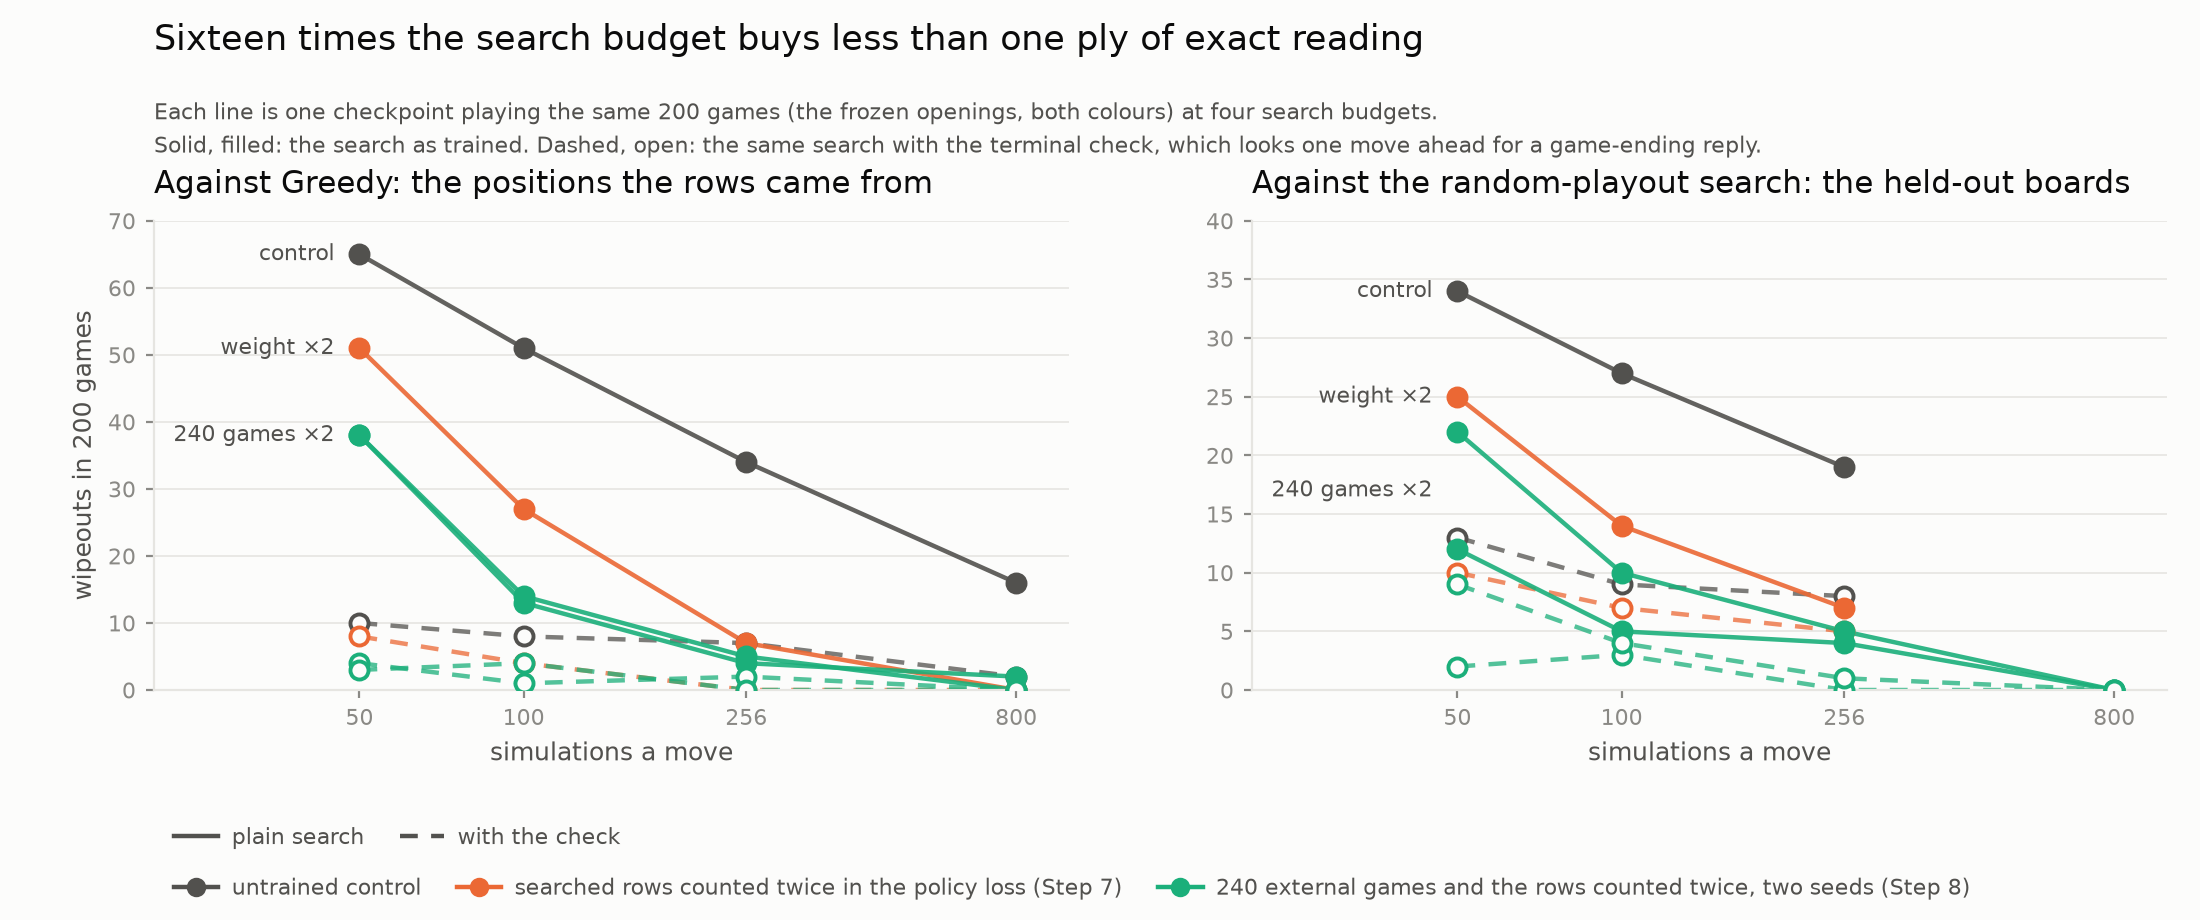
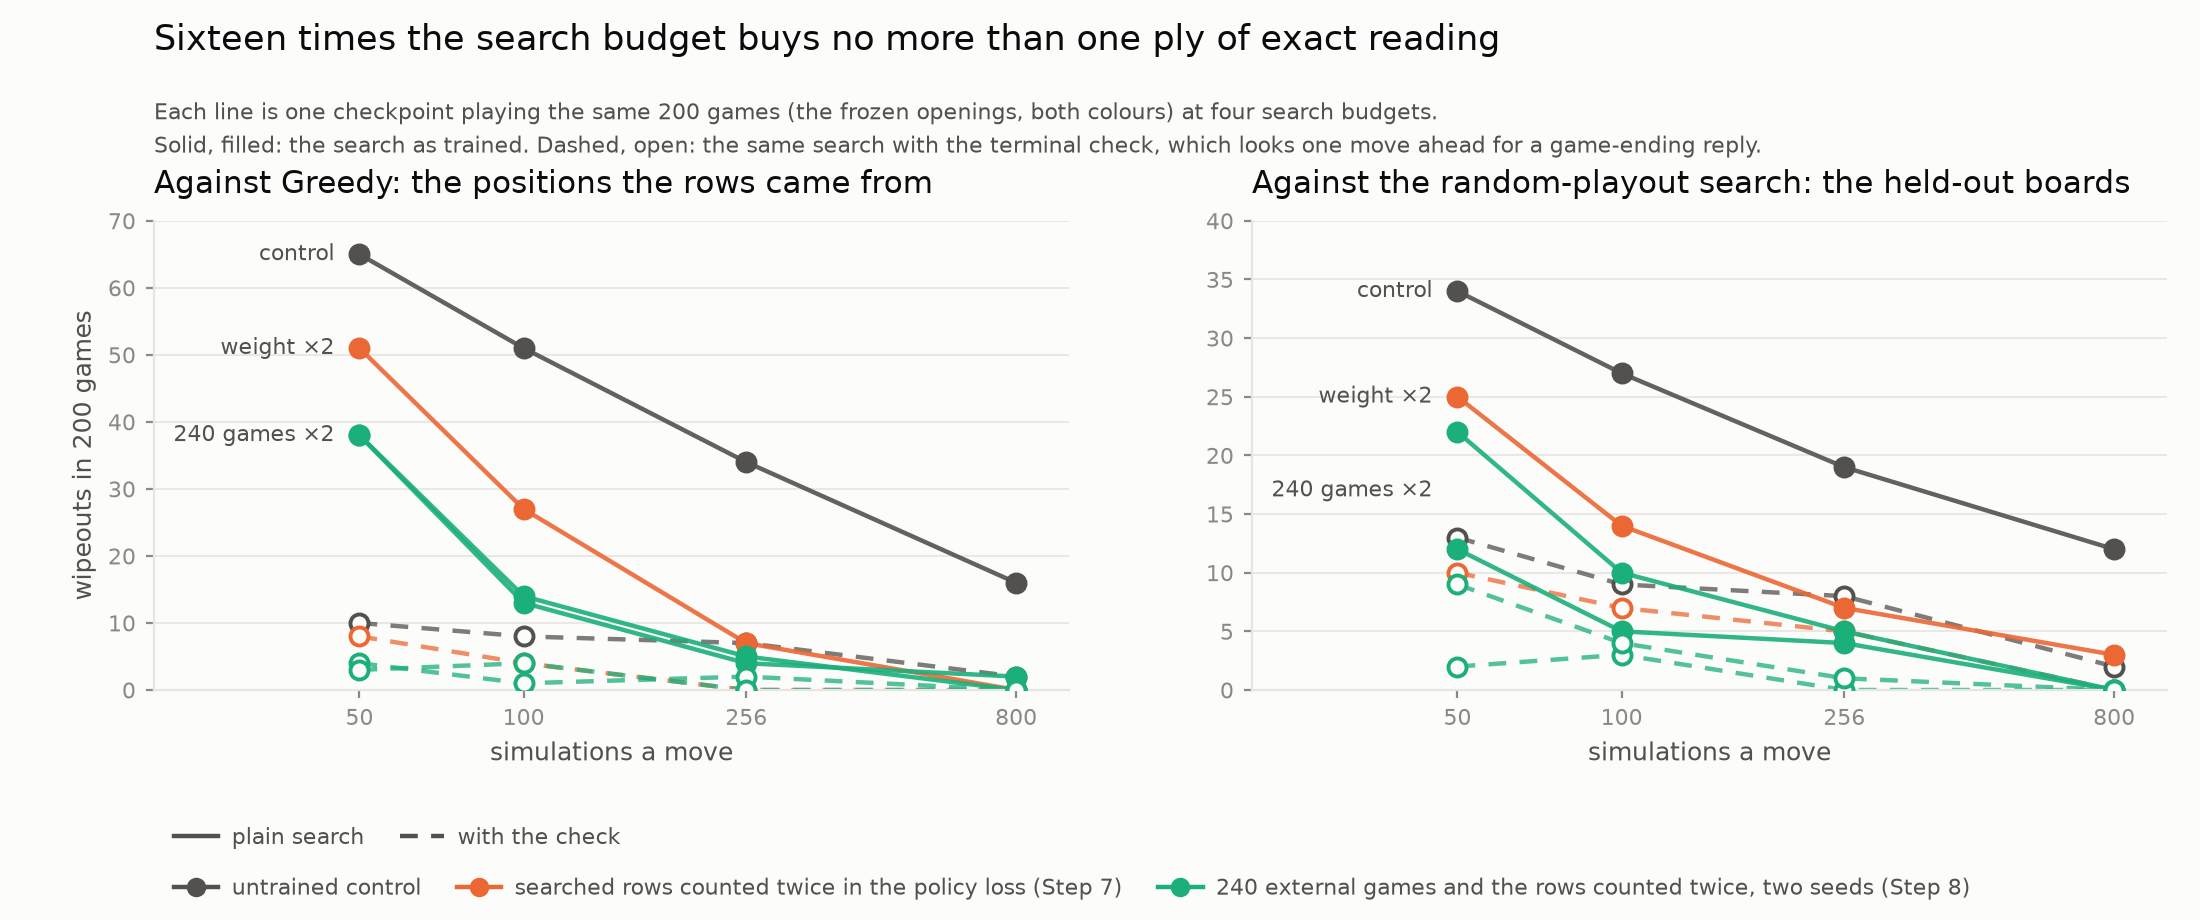
research: the last four cells of the search-budget curve
The 800-simulation pairings of the control and the weight-2 checkpoint
against the random-playout search have reported: 12 and 3 with the plain
search, 2 and 0 with the check. On that row sixteen times the budget reaches
the check's 50-simulation reading on the control (12 against 13), where
against Greedy it does not (16 against 10), so the section and the figure
title say "no more than one ply" rather than "less than". The pending
paragraph is gone, the JSON holds all 64 cells and is written with LF line
endings, and the job durations are recorded.

diff --git a/scripts/step3c_dose_curve.py b/scripts/step3c_dose_curve.py
@@ -167,7 +167,7 @@ def main() -> int:
             "opponents": list(OPPONENTS),
             "pairings": table,
         }
-        args.out.write_text(json.dumps(payload, indent=1, sort_keys=True) + "\n")
+        args.out.write_text(json.dumps(payload, indent=1, sort_keys=True) + "\n", newline="\n")
         print(f"wrote {args.out}", file=sys.stderr)
     if args.markdown or args.out is None:
         print("wipeouts in 200 games\n")

diff --git a/scripts/figures/dose.py b/scripts/figures/dose.py
@@ -199,7 +199,7 @@ def main() -> None:
         ax.set_xlim(21, 1000)
 
     fig.suptitle(
-        "Sixteen times the search budget buys less than one ply of exact reading",
+        "Sixteen times the search budget buys no more than one ply of exact reading",
         x=0.07,
         ha="left",
         fontsize=12.5,

diff --git a/research/step3c-terminal-check.md b/research/step3c-terminal-check.md
@@ -108,7 +108,7 @@ Both residues are fixable in the search, neither was run, and neither bears on t
 - **The repair is local.** The check changes nothing against Edax or against the earlier generation. It is not a strength improvement; it is the removal of one class of loss. This separates the two things the Step 1 pilot conflated, overall strength and the Greedy anomaly: the anomaly can be removed on its own, and removing it leaves strength where it was.
 - **Together with Steps 3 and 3b, this fixes where the fault sits.** The training data does not carry the lesson (Step 3b, section 5: about 80 rows against four thousand look-alikes labelled the other way); the value head cannot carry a one-move tactic as a smooth function of the position; the policy prior hides the reply; and the search budget is too small to look past the prior. The first three are properties of learning from game results; the fourth is the one a cheap, exact rule can override. The rule matters in Othello because a game can end from the middle of the board in one move: the wipeout rule puts a terminal position within one ply of ordinary-looking positions, where a learned evaluator is least likely to be asked and most likely to be wrong.
 
-**What it does not establish.** It does not say the check should be on in self-play: training with it would change what the network learns about low-disc positions, and that is a training experiment, not a measurement. Section 7, run a week later, tests a larger search budget as the alternative and finds that sixteen times the budget buys less than the check does at 50 simulations. It does not test the two residual repairs in section 5. And the twelve games say the 95% is a property of this rule at this budget, not a ceiling.
+**What it does not establish.** It does not say the check should be on in self-play: training with it would change what the network learns about low-disc positions, and that is a training experiment, not a measurement. Section 7, run a week later, tests a larger search budget as the alternative and finds that sixteen times the budget buys no more than the check does at 50 simulations. It does not test the two residual repairs in section 5. And the twelve games say the 95% is a property of this rule at this budget, not a ceiling.
 
 ## 7. The search-budget curve
 
@@ -131,24 +131,22 @@ Against the random-playout search, the held-out opponent:
 
 | checkpoint | plain 50 | plain 100 | plain 256 | plain 800 | check 50 | check 100 | check 256 | check 800 |
 |---|---:|---:|---:|---:|---:|---:|---:|---:|
-| control120 (untrained) | 34 | 27 | 19 | pending | 13 | 9 | 8 | pending |
-| Bw2-s1 (Step 7, rows counted twice) | 25 | 14 | 7 | pending | 10 | 7 | 5 | pending |
+| control120 (untrained) | 34 | 27 | 19 | 12 | 13 | 9 | 8 | 2 |
+| Bw2-s1 (Step 7, rows counted twice) | 25 | 14 | 7 | 3 | 10 | 7 | 5 | 0 |
 | B240w2-s1 (Step 8, 240 games, rows counted twice) | 12 | 5 | 4 | 0 | 2 | 3 | 0 | 0 |
 | B240w2-s2 (the same, second seed) | 22 | 10 | 5 | 0 | 9 | 4 | 1 | 0 |
 
-The two 800-simulation pairings of the control and of Bw2-s1 against the random-playout search, about nine hours each on one core, had not reported when this section was written and are marked pending; the JSON and the figure are regenerated from the reports when they land.
-
 The scores move with the wipeouts throughout and are in the JSON; against Greedy the control reads 67.5% at 50 simulations, 92.0% at 800 and 95.0% at 50 with the check. Four readings.
 
-**Sixteen times the budget buys less than one ply of exact reading.** On the untrained control the plain search at 800 simulations leaves 16 wipeouts against Greedy, and the check at 50 leaves 10; against the random-playout search the plain search at 256 leaves 19 where the check at 50 leaves 13. The curve on the control is slow because of what section 1 and the Step 2 analysis found: the prior on the wiping reply is 3.6% at the median of these positions, and a search that gives a child that share of its visits needs some hundreds of simulations at the position above before the child is opened even once. Each step of the budget removes about a quarter to a half of the remaining wipeouts, 65, 51, 34, 16, and the one-ply rule removes five sixths of them at the smallest budget. The Step 2 reading stands as a curve: the search was short of one specific ply, not of depth.
+**Sixteen times the budget buys no more than one ply of exact reading.** On the untrained control the plain search at 800 simulations leaves 16 wipeouts against Greedy, where the check at 50 leaves 10; against the random-playout search it leaves 12 at 800, where the check at 50 leaves 13 and at 800 leaves 2. The budget catches the one-ply rule's 50-simulation reading on one row at sixteen times the cost and does not catch it on the other. The curve on the control is slow because of what section 1 and the Step 2 analysis found: the prior on the wiping reply is 3.6% at the median of these positions, and a search that gives a child that share of its visits needs some hundreds of simulations at the position above before the child is opened even once. Each step of the budget removes about a quarter to a half of the remaining wipeouts, 65, 51, 34, 16, and the one-ply rule removes five sixths of them at the smallest budget. The Step 2 reading stands as a curve: the search was short of one specific ply, not of depth.
 
-**What the check leaves is not a budget problem until 800.** The checked curve on the control is nearly flat, 10, 8, 7, 2 against Greedy and 13, 9, 8 against the random-playout search. Section 5 read the residue as the first-play-urgency rule meeting a proven loss: every move the search tried was known to lose and the one that did not was never tried. More simulations do eventually try it, which is why 2 remain at 800 and not 7, but 256 do not; the residue is a property of how the search orders untried moves, which section 5 names two cheap fixes for, and the budget is the expensive way to buy the same thing.
+**What the check leaves is not a budget problem until 800.** The checked curve on the control is nearly flat, 10, 8, 7, 2 against Greedy and 13, 9, 8, 2 against the random-playout search. Section 5 read the residue as the first-play-urgency rule meeting a proven loss: every move the search tried was known to lose and the one that did not was never tried. More simulations do eventually try it, which is why 2 remain at 800 and not 7, but 256 do not; the residue is a property of how the search orders untried moves, which section 5 names two cheap fixes for, and the budget is the expensive way to buy the same thing.
 
 **The trained prior does not remove the hole at 50 simulations; it lowers the budget at which the plain search finds the reply itself.** From 50 to 100 simulations the control's wipeouts fall by a fifth, 65 to 51 against Greedy and 34 to 27 against the random-playout search; the trained checkpoints' fall by half or more, 51 to 27, 38 to 13 and 38 to 14 against Greedy, 25 to 14, 12 to 5 and 22 to 10 against the random-playout search. At 256 simulations the plain search on the trained checkpoints reads 4 to 7 against Greedy and 4 to 7 against the random-playout search, which is where the check sits at 50 simulations on the same checkpoints (3 to 8, and 2 to 10) and where the control's plain search has not arrived at 800. The mechanism is the one the Step 5 results named: the policy route raised the prior on the wiping reply from 4% to 8 to 12%, and a child carrying 12% of the prior is opened at a budget where one carrying 4% is not. The training signal and the search budget multiply. What twenty generations of the policy route bought, read on this axis, is a move of the budget that finds the reply from past 800 simulations to about 256.
 
-**The held-out row reads as the Greedy row does at every budget, so the reading every trained group stops at under the frozen protocol is a reading of the budget.** The Step 6 to 8 groups all read 17 to 27 wipeouts against the random-playout search at 50 simulations, whichever way the policy signal was bought, and the Step 8 design asked whether that was where the signal stopped or where the distinct positions ran out. At 256 simulations the two combined-group checkpoints read 4 and 5 on that row with the plain search, and at 800 both read 0, with or without the check. The row stops where a 50-simulation search stops on these priors, not where the networks stop. With the check on, every trained checkpoint reads 0 to 2 against Greedy and 0 to 5 against the random-playout search from 256 simulations on, and 0 on both rows at 800 where it has reported.
+**The held-out row reads as the Greedy row does at every budget, so the reading every trained group stops at under the frozen protocol is a reading of the budget.** The Step 6 to 8 groups all read 17 to 27 wipeouts against the random-playout search at 50 simulations, whichever way the policy signal was bought, and the Step 8 design asked whether that was where the signal stopped or where the distinct positions ran out. At 256 simulations the two combined-group checkpoints read 4 and 5 on that row with the plain search, and at 800 both read 0, with or without the check. The row stops where a 50-simulation search stops on these priors, not where the networks stop. With the check on, every trained checkpoint reads 0 to 2 against Greedy and 0 to 5 against the random-playout search from 256 simulations on, and 0 on both rows at 800.
 
-**What it costs.** The check costs nothing in wall time at any budget (section 1). The budget is paid for in proportion: on one core the Greedy pairings took 15 to 22 minutes at 50 simulations and two and a half to three hours at 800, and the random-playout pairings, whose opponent spends 3,000 playouts a move, six hours at 50 and about nine at 800. A search at 800 simulations in play is sixteen times the compute of one at 50, for a reading the one-ply rule gives at 50.
+**What it costs.** The check costs nothing in wall time at any budget (section 1). The budget is paid for in proportion: on one core the Greedy pairings took 15 to 22 minutes at 50 simulations and two and a half to three hours at 800, and the random-playout pairings, whose opponent spends 3,000 playouts a move, six hours at 50 and nine and a half to ten at 800. A search at 800 simulations in play is sixteen times the compute of one at 50, for a reading the one-ply rule gives at 50.
 
 **What it does not establish.** One seed of the weight-2 recipe and two of the combined one, 200 games a cell, so neighbouring cells that differ by a few wipeouts are not individually resolved and the curve is read as a whole; no budget between 256 and 800; the random-playout opponent at one strength, 3,000 playouts a move; and nothing about what a budget above 50 would do inside training, which is a training experiment and not a measurement.
 

diff --git a/research/contribution.md b/research/contribution.md
@@ -5,7 +5,7 @@
 
 ## 1. The claim in one sentence
 
-An opponent-specific weakness of a self-play agent can be *tactical* rather than *strategic*: a short, exactly calculable sequence of moves, not a misjudgement of the position. For that kind, the value head cannot be taught the lesson by any of three routes tried, more diverse training opponents, the value target at the position the search reads, or the exact answer resolved inside the training search, and the reason can be counted in the training data; a cheap exact search removes the loss outright; and the policy head can be taught it, partly, by one route only: a search run at the position the search reads, which gives it a target there. What the policy head carries grows with the weight of that signal in its loss, whether the weight comes from more such positions or from counting the same positions more times: first the positions of the opponents that produce them, then, once the signal is doubled, the boards of a knowledge-free opponent that finds the same hole elsewhere, a move read in the pooled series of checkpoints and not on any one of them. The gain is concave in the signal, the positions limit themselves because each lesson teaches the network to stop producing the next, and raising the signal by playing more games against the opponents is past a point paid for with the network's own strength, because the agent is by then mostly not training on its own play and has stopped being the kind of agent the claim is about; raising it by a weight in the loss, with the games unchanged, reaches the same place and pays nothing, up to a weight of 8 at which the opponent's rows are two fifths of the policy loss. Past a weighted count of about 300 the signal keeps buying the positions of the opponents that produce it and no more of the knowledge-free opponent's boards, and twice the distinct positions at the same weighted count buy no more of them either, read on three seeds. Where that row stops under the frozen protocol is where a 50-simulation search stops on the priors these networks learned: the same networks lose a quarter as many of those games at 256 simulations a move and none at 800, while the untrained network at 800 still loses more of them than the exact check leaves at 50. The exact search reaches every board at once and for nothing.
+An opponent-specific weakness of a self-play agent can be *tactical* rather than *strategic*: a short, exactly calculable sequence of moves, not a misjudgement of the position. For that kind, the value head cannot be taught the lesson by any of three routes tried, more diverse training opponents, the value target at the position the search reads, or the exact answer resolved inside the training search, and the reason can be counted in the training data; a cheap exact search removes the loss outright; and the policy head can be taught it, partly, by one route only: a search run at the position the search reads, which gives it a target there. What the policy head carries grows with the weight of that signal in its loss, whether the weight comes from more such positions or from counting the same positions more times: first the positions of the opponents that produce them, then, once the signal is doubled, the boards of a knowledge-free opponent that finds the same hole elsewhere, a move read in the pooled series of checkpoints and not on any one of them. The gain is concave in the signal, the positions limit themselves because each lesson teaches the network to stop producing the next, and raising the signal by playing more games against the opponents is past a point paid for with the network's own strength, because the agent is by then mostly not training on its own play and has stopped being the kind of agent the claim is about; raising it by a weight in the loss, with the games unchanged, reaches the same place and pays nothing, up to a weight of 8 at which the opponent's rows are two fifths of the policy loss. Past a weighted count of about 300 the signal keeps buying the positions of the opponents that produce it and no more of the knowledge-free opponent's boards, and twice the distinct positions at the same weighted count buy no more of them either, read on three seeds. Where that row stops under the frozen protocol is where a 50-simulation search stops on the priors these networks learned: the same networks lose a quarter as many of those games at 256 simulations a move and none at 800, while the untrained network at 800 still loses as many of them as the exact check leaves at 50. The exact search reaches every board at once and for nothing.
 
 ## 2. What is not new
 
@@ -52,7 +52,7 @@ Where a weakness sits on that axis decides what fixes it, and the fix differs fr
 
 Steps 5 and 6 read the first column from the other side. A learned prior is a memory of positions that generalises as far as its data reaches. At 130 searched fatal rows it reached the positions the Greedy family produces and not the ones the random-playout search produces, which attack the same one-ply fact on different boards; at 200 to 320 rows it reached those too, by a third over the pooled checkpoints, with the gain per row falling and, at the larger dose, the network's strength falling with it. Step 7 says what the memory is a memory of: 110 of those positions counted twice in the loss reached the knowledge-free opponent's boards as far as 200 counted once, and 85 counted four times closed the prior's tail as far as 320 counted once, so the quantity the prior generalises in proportion to is the weight of the search's signal at such positions, not their number, and the games the dose had to be paid in were never the active ingredient. Step 8 says where that stops: 80 positions counted eight times took the family lower than any group and the held-out row no lower, so past a weighted count of about 300 the signal reaches the positions it was drawn from and no more of the knowledge-free opponent's, and 170 distinct positions counted twice reach no more of them than 85 counted four times, on three seeds. The exact check reaches every board at once, because it reads the board rather than remembering it. That is the practical content of "tactical": the fix that calculates generalises for nothing; the fix that learns generalises in proportion to what it is shown, and what it can be shown is bounded by the game itself, since each lesson teaches the network to stop producing the next.
 
-The test that places a weakness on the axis is the one Step 2 and Step 3c applied: leave the learned evaluator alone, add exact calculation of a chosen depth, and ask whether the loss goes. The Step 2 budget series (50, 256, 800 simulations: wipeouts fall by a third to a half per step and never to zero) looked, on its own, like a long horizon or none. The one-ply check at 50 simulations, which removes 82 to 88% of the wipeouts and more than 256 simulations do, says the search was not short of depth in general but of one specific ply that the prior kept it from spending. The full curve ([Step 3c, section 7](step3c-terminal-check.md#7-the-search-budget-curve)) says the same with four budgets and four networks: on the untrained control 800 simulations leave more wipeouts than the check leaves at 50, and on the networks trained by the policy route the plain search reaches the check's reading at about 256, because the prior they learned is what a modest budget needs to find the reply. The training route and the search budget multiply, and the exact rule makes both unnecessary for this tactic.
+The test that places a weakness on the axis is the one Step 2 and Step 3c applied: leave the learned evaluator alone, add exact calculation of a chosen depth, and ask whether the loss goes. The Step 2 budget series (50, 256, 800 simulations: wipeouts fall by a third to a half per step and never to zero) looked, on its own, like a long horizon or none. The one-ply check at 50 simulations, which removes 82 to 88% of the wipeouts and more than 256 simulations do, says the search was not short of depth in general but of one specific ply that the prior kept it from spending. The full curve ([Step 3c, section 7](step3c-terminal-check.md#7-the-search-budget-curve)) says the same with four budgets and four networks: on the untrained control 800 simulations leave no fewer wipeouts than the check leaves at 50, and on the networks trained by the policy route the plain search reaches the check's reading at about 256, because the prior they learned is what a modest budget needs to find the reply. The training route and the search budget multiply, and the exact rule makes both unnecessary for this tactic.
 
 The cyclic attack on KataGo (Wang et al. 2023) reads as the middle column. The decisive error is one move, failing to start filling liberties in a race the network has misjudged, and the correct move is exactly calculable, so the weakness is tactical in kind. But the horizon is the length of the race, the value network misjudges every position along it, and the policy network does not propose the fill, so search receives no help from either head: the adversary still wins 72% of games against KataGo at ten million visits. The weakness here is the same kind at the shortest possible horizon, which is why one cheap rule removes it and why the result can be placed by experiment. The general statement both support: a learned evaluator with a generic search inherits the tactical blind spots that classical programs covered with dedicated exact readers, and the cost of recovering each one by search alone grows with its horizon. The terminal check is the smallest such reader.
 
